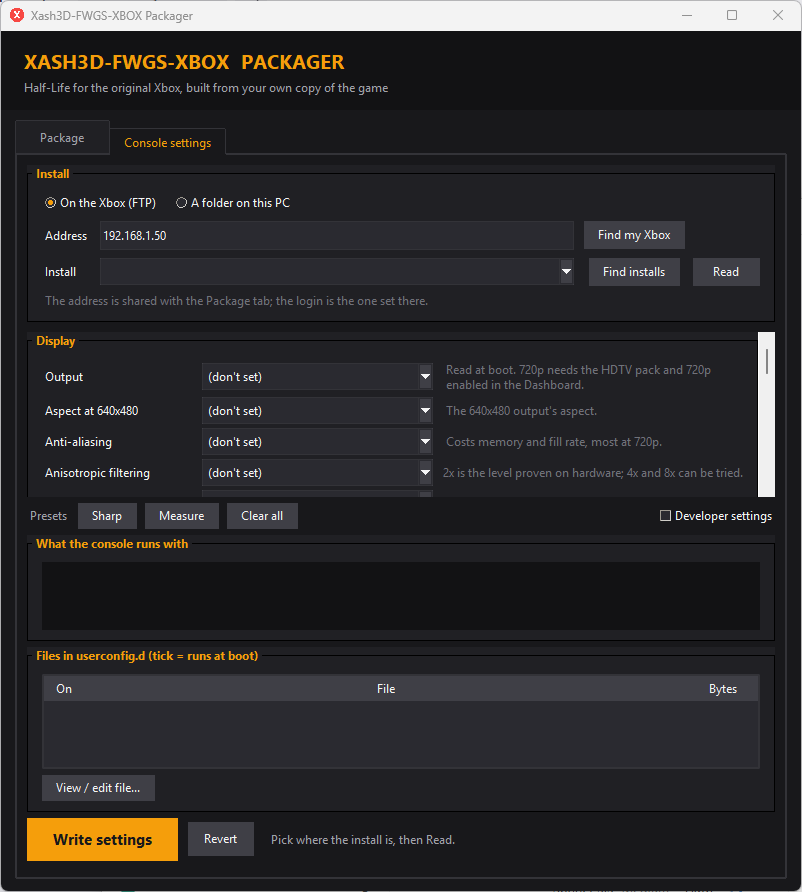
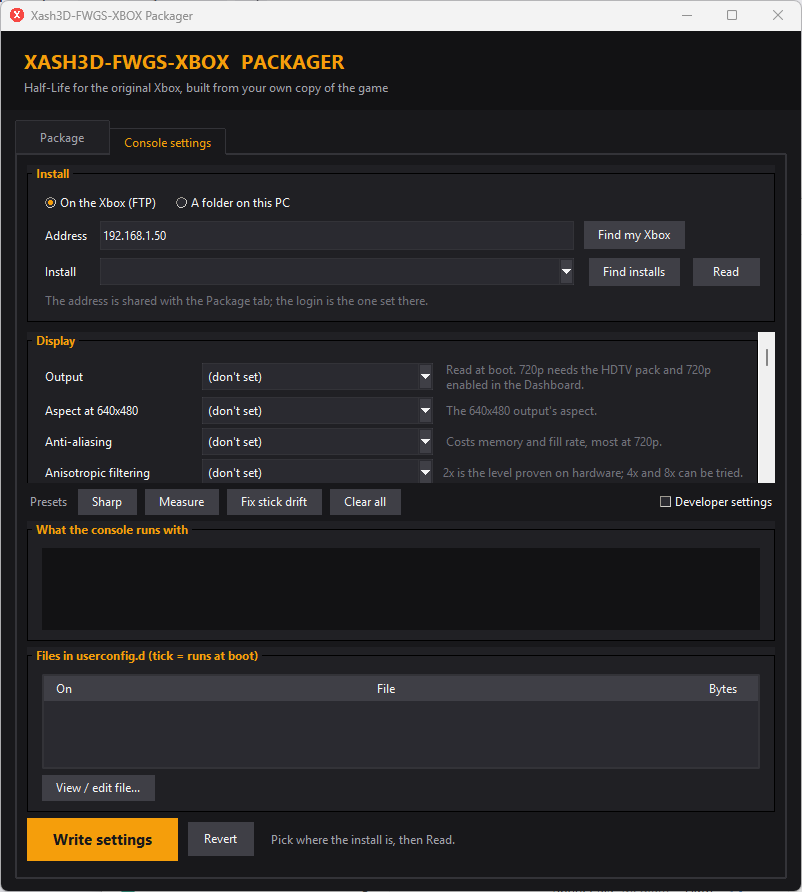
Site: a Troubleshooting page with screenshots of the stick-drift fix; the drift warning leads the settings panel and follows the preset

Changed region(s): [[0.0312, 0.5448, 0.5299, 0.6357], [0.8416, 0.5448, 0.9663, 0.6054]]

diff --git a/site/troubleshooting.html b/site/troubleshooting.html
@@ -1,0 +1,97 @@
+<!doctype html>
+<html lang="en">
+<head>
+<meta charset="utf-8">
+<meta name="viewport" content="width=device-width, initial-scale=1">
+<title>Troubleshooting - Xash3D-FWGS-XBOX</title>
+<meta name="description" content="Fixes for the view turning by itself, the Windows warning, FTP problems and a black world.">
+<link rel="stylesheet" href="style.css">
+</head>
+<body>
+<header class="site"><div class="bar">
+<a class="name" href="index.html">Xash3D-<b>FWGS</b>-XBOX</a>
+<nav><a href="index.html">Home</a><a href="install.html">Install</a><a href="settings.html">Console settings</a><a href="troubleshooting.html" aria-current="page">Troubleshooting</a><a href="menus.html">Menus</a><a href="progress.html">Progress</a><a href="performance.html">Performance</a><a href="recorder.html">Frame-time recorder</a><a href="build.html">Building</a><a href="differences.html">How it differs</a><a href="about.html">About</a></nav>
+</div></header>
+<main>
+<h1>Troubleshooting</h1>
+<p class="lede">Problems people have run into, and what to do about each.</p>
+
+<h2 id="drift">The view turns by itself</h2>
+<p>With nobody touching the controller, the camera slowly turns, usually to the left. This is <strong>stick drift</strong>.
+Original Xbox pads rest well off centre: an untouched right stick can read about a fifth of the way over. The engine
+ignores a stick inside its <em>dead zone</em>, and the Xbox build's default is 8689, which is wide enough. A dead zone of 0
+lets the resting offset turn the view.</p>
+<p>Where the 0 came from: before v0.1.2 the packager copied PC Half-Life's <code>config.cfg</code> to the console, and that
+file sets all four stick dead zones to 0. On the console's first start it ran, and the console then saved those zeros as its
+own settings, so they stayed. From v0.1.2 the export leaves the PC's settings behind. A console that already ran the old
+export still has them; here is how to fix it.</p>
+
+<h3>Fix it from the packager (v0.1.2 or later)</h3>
+<ol>
+<li>Put the console on the dashboard (the game must not be running: FTP does not work inside the game).</li>
+<li>Open the packager, go to <strong>Console settings</strong>, press <strong>Find my Xbox</strong> and <strong>Find installs</strong>,
+choose the Half-Life install and press <strong>Read</strong>.</li>
+<li>If a saved dead zone is too small, <em>What the console runs with</em> says so first, in orange.</li>
+<li>Press the <strong>Fix stick drift</strong> preset. The four <em>Controller</em> rows fill in with 8689 and the warning goes.</li>
+<li>Press <strong>Write settings</strong>, then start the game. The fix is written to <code>userconfig.d/50-packager.cfg</code>, which
+runs after the console's saved settings on every start.</li>
+</ol>
+<p>The <em>Controller</em> group also lets you pick another value: lower makes the stick more sensitive near the centre,
+but under about 8000 a pad that rests off centre will drift again.</p>
+<div class="shots">
+<figure>
+<a href="media/packager-drift-warning.png"><img src="media/packager-drift-warning.png" loading="lazy" width="802" height="892"
+alt="The Console settings tab after reading an install: the Controller group of four stick dead zones, the Fix stick drift preset button, and under What the console runs with a warning that the dead zones are 0 and the view can turn by itself."></a>
+<figcaption><strong>After Read.</strong> The warning names the settings and where they come from. The address and
+folder shown are examples.</figcaption>
+</figure>
+<figure>
+<a href="media/packager-drift-fixed.png"><img src="media/packager-drift-fixed.png" loading="lazy" width="802" height="892"
+alt="The same tab after pressing Fix stick drift: the Controller rows show 8689 and the warning is gone; the status line says to press Write settings to apply it."></a>
+<figcaption><strong>After Fix stick drift.</strong> The rows read 8689. Nothing is changed on the console until you press
+Write settings.</figcaption>
+</figure>
+</div>
+
+<h3>Or by hand, without the packager</h3>
+<p>Create a file called <code>60-deadzone.cfg</code> in the console's <strong>game folder</strong> (not in
+<code>UDATA</code>), in <code>valve/userconfig.d/</code> next to <code>50-packager.cfg</code>. Make the folder if it is not
+there. For example <code>/F/Games/Half-Life/valve/userconfig.d/60-deadzone.cfg</code> (some FTP servers show the drive as
+<code>/HDD0-F/</code>). Put these four lines in it:</p>
+<pre><code>joy_forward_deadzone "8689"
+joy_side_deadzone "8689"
+joy_pitch_deadzone "8689"
+joy_yaw_deadzone "8689"</code></pre>
+
+<h3>Or start the settings again</h3>
+<p>Delete <strong>both</strong> copies of <code>config.cfg</code>: the one in the game folder (<code>Games/Half-Life/valve/</code>,
+which the old export put there) and the one the console saved (<code>E:&#92;UDATA&#92;FFFF0002&#92;valve&#92;valve&#92;</code>). Deleting only
+the saved one is not enough: the console then falls back to the game-folder copy and saves the zeros again. The game starts
+with the Xbox defaults, but everything saved in the menu (volume, display, game options, changed controls) is lost. Settings
+written by the packager's Console settings tab survive, because they live in <code>userconfig.d</code>.</p>
+
+<h2 id="smartscreen">Windows says "Windows protected your PC"</h2>
+<p>The packager's exe is not signed yet, so Windows does not know the publisher. Check the zip against
+<code>SHA256SUMS.txt</code> on the release page, then choose <em>More info</em> and <em>Run anyway</em>.
+See the <a href="install.html#code-signing-policy">code signing policy</a> for where signing stands.</p>
+
+<h2 id="ftp">The packager cannot reach the console, or the upload stops</h2>
+<ul>
+<li><strong>The game must not be running.</strong> The console's FTP server is part of the dashboard; it is not there while
+a game is up. Go back to the dashboard first.</li>
+<li><strong>One connection at a time.</strong> Close any other FTP program that is connected to the console.</li>
+<li><strong>"421 Too many users".</strong> Seen with the UnleashX dashboard: a program that died in the middle of a transfer can
+keep its login slot for about half an hour, and every new login is refused. Restarting the console clears it.</li>
+<li>Press <strong>Find my Xbox</strong> again if the console's address changed: it is usually handed out by your router and can
+differ from one day to the next.</li>
+</ul>
+
+<h2 id="black-world">The world draws black and only models show</h2>
+<p>A loose <code>.bsp</code> sitting beside a baked <code>.mpak</code> is loaded instead of the archive, and the Xbox renderer
+then has no world to draw. The packager leaves the <code>.bsp</code> of every baked map off the console. If you copied files
+across by hand, remove the retail <code>.bsp</code> of each map that has an <code>.mpak</code>.</p>
+</main>
+<footer><div>Xash3D-FWGS-XBOX, formerly Resonance3D. GPL-3.0-or-later. Contains no Valve assets.
+<a href="https://github.com/mathiasdbo/Xash3D-FWGS-XBOX">Source on GitHub</a>.</div></footer>
+</body>
+</html>

diff --git a/site/settings.html b/site/settings.html
@@ -10,7 +10,7 @@
 <body>
 <header class="site"><div class="bar">
 <a class="name" href="index.html">Xash3D-<b>FWGS</b>-XBOX</a>
-<nav><a href="index.html">Home</a><a href="install.html">Install</a><a href="settings.html" aria-current="page">Console settings</a><a href="menus.html">Menus</a><a href="progress.html">Progress</a><a href="performance.html">Performance</a><a href="recorder.html">Frame-time recorder</a><a href="build.html">Building</a><a href="differences.html">How it differs</a><a href="about.html">About</a></nav>
+<nav><a href="index.html">Home</a><a href="install.html">Install</a><a href="settings.html" aria-current="page">Console settings</a><a href="troubleshooting.html">Troubleshooting</a><a href="menus.html">Menus</a><a href="progress.html">Progress</a><a href="performance.html">Performance</a><a href="recorder.html">Frame-time recorder</a><a href="build.html">Building</a><a href="differences.html">How it differs</a><a href="about.html">About</a></nav>
 </div></header>
 <main>
 <h1>Console settings</h1>
@@ -89,7 +89,8 @@ v0.1.2 copied it to the console, where it ran on the first start and was then sa
 <p>If that happened to your install, the <strong>Console settings</strong> tab says so under <em>What the console runs with</em>
 (<em>too small for an Xbox pad</em>). Read the install, press the <strong>Fix stick drift</strong> preset, and
 <strong>Write settings</strong>: it writes the four dead zones as 8689 to <code>userconfig.d/50-packager.cfg</code>, which runs
-after the saved <code>config.cfg</code> on every start. The <em>Controller</em> group lets you choose other values.</p>
+after the saved <code>config.cfg</code> on every start. The <em>Controller</em> group lets you choose other values.
+Screenshots, and two other ways to fix it, are on the <a href="troubleshooting.html#drift">Troubleshooting</a> page.</p>
 
 <p>Audio options (backend, rate, hardware audio) and developer switches (GPU skinning, culling) are in the tab
 too; developer settings are behind a tick. Video output, sound backend, rate and hardware audio are read at

diff --git a/site/differences.html b/site/differences.html
@@ -10,7 +10,7 @@
 <body>
 <header class="site"><div class="bar">
 <a class="name" href="index.html">Xash3D-<b>FWGS</b>-XBOX</a>
-<nav><a href="index.html">Home</a><a href="install.html">Install</a><a href="settings.html">Console settings</a><a href="menus.html">Menus</a><a href="progress.html">Progress</a><a href="performance.html">Performance</a><a href="recorder.html">Frame-time recorder</a><a href="build.html">Building</a><a href="differences.html" aria-current="page">How it differs</a><a href="about.html">About</a></nav>
+<nav><a href="index.html">Home</a><a href="install.html">Install</a><a href="settings.html">Console settings</a><a href="troubleshooting.html">Troubleshooting</a><a href="menus.html">Menus</a><a href="progress.html">Progress</a><a href="performance.html">Performance</a><a href="recorder.html">Frame-time recorder</a><a href="build.html">Building</a><a href="differences.html" aria-current="page">How it differs</a><a href="about.html">About</a></nav>
 </div></header>
 <main>
 <h1>How it differs from Xash3D FWGS</h1>

diff --git a/site/install.html b/site/install.html
@@ -10,7 +10,7 @@
 <body>
 <header class="site"><div class="bar">
 <a class="name" href="index.html">Xash3D-<b>FWGS</b>-XBOX</a>
-<nav><a href="index.html">Home</a><a href="install.html" aria-current="page">Install</a><a href="settings.html">Console settings</a><a href="menus.html">Menus</a><a href="progress.html">Progress</a><a href="performance.html">Performance</a><a href="recorder.html">Frame-time recorder</a><a href="build.html">Building</a><a href="differences.html">How it differs</a><a href="about.html">About</a></nav>
+<nav><a href="index.html">Home</a><a href="install.html" aria-current="page">Install</a><a href="settings.html">Console settings</a><a href="troubleshooting.html">Troubleshooting</a><a href="menus.html">Menus</a><a href="progress.html">Progress</a><a href="performance.html">Performance</a><a href="recorder.html">Frame-time recorder</a><a href="build.html">Building</a><a href="differences.html">How it differs</a><a href="about.html">About</a></nav>
 </div></header>
 <main>
 <h1>Put Half-Life on your Xbox</h1>

diff --git a/site/recorder.html b/site/recorder.html
@@ -10,7 +10,7 @@
 <body>
 <header class="site"><div class="bar">
 <a class="name" href="index.html">Xash3D-<b>FWGS</b>-XBOX</a>
-<nav><a href="index.html">Home</a><a href="install.html">Install</a><a href="settings.html">Console settings</a><a href="menus.html">Menus</a><a href="progress.html">Progress</a><a href="performance.html">Performance</a><a href="recorder.html" aria-current="page">Frame-time recorder</a><a href="build.html">Building</a><a href="differences.html">How it differs</a><a href="about.html">About</a></nav>
+<nav><a href="index.html">Home</a><a href="install.html">Install</a><a href="settings.html">Console settings</a><a href="troubleshooting.html">Troubleshooting</a><a href="menus.html">Menus</a><a href="progress.html">Progress</a><a href="performance.html">Performance</a><a href="recorder.html" aria-current="page">Frame-time recorder</a><a href="build.html">Building</a><a href="differences.html">How it differs</a><a href="about.html">About</a></nav>
 </div></header>
 <main>
 <h1>Frame-time recorder</h1>

diff --git a/site/index.html b/site/index.html
@@ -10,7 +10,7 @@
 <body>
 <header class="site"><div class="bar">
 <a class="name" href="index.html">Xash3D-<b>FWGS</b>-XBOX</a>
-<nav><a href="index.html" aria-current="page">Home</a><a href="install.html">Install</a><a href="settings.html">Console settings</a><a href="menus.html">Menus</a><a href="progress.html">Progress</a><a href="performance.html">Performance</a><a href="recorder.html">Frame-time recorder</a><a href="build.html">Building</a><a href="differences.html">How it differs</a><a href="about.html">About</a></nav>
+<nav><a href="index.html" aria-current="page">Home</a><a href="install.html">Install</a><a href="settings.html">Console settings</a><a href="troubleshooting.html">Troubleshooting</a><a href="menus.html">Menus</a><a href="progress.html">Progress</a><a href="performance.html">Performance</a><a href="recorder.html">Frame-time recorder</a><a href="build.html">Building</a><a href="differences.html">How it differs</a><a href="about.html">About</a></nav>
 </div></header>
 <main>
 <h1>Xash3D-FWGS-XBOX</h1>

diff --git a/site/performance.html b/site/performance.html
@@ -10,7 +10,7 @@
 <body>
 <header class="site"><div class="bar">
 <a class="name" href="index.html">Xash3D-<b>FWGS</b>-XBOX</a>
-<nav><a href="index.html">Home</a><a href="install.html">Install</a><a href="settings.html">Console settings</a><a href="menus.html">Menus</a><a href="progress.html">Progress</a><a href="performance.html" aria-current="page">Performance</a><a href="recorder.html">Frame-time recorder</a><a href="build.html">Building</a><a href="differences.html">How it differs</a><a href="about.html">About</a></nav>
+<nav><a href="index.html">Home</a><a href="install.html">Install</a><a href="settings.html">Console settings</a><a href="troubleshooting.html">Troubleshooting</a><a href="menus.html">Menus</a><a href="progress.html">Progress</a><a href="performance.html" aria-current="page">Performance</a><a href="recorder.html">Frame-time recorder</a><a href="build.html">Building</a><a href="differences.html">How it differs</a><a href="about.html">About</a></nav>
 </div></header>
 <main>
 <h1>Performance</h1>

diff --git a/site/menus.html b/site/menus.html
@@ -10,7 +10,7 @@
 <body>
 <header class="site"><div class="bar">
 <a class="name" href="index.html">Xash3D-<b>FWGS</b>-XBOX</a>
-<nav><a href="index.html">Home</a><a href="install.html">Install</a><a href="settings.html">Console settings</a><a href="menus.html" aria-current="page">Menus</a><a href="progress.html">Progress</a><a href="performance.html">Performance</a><a href="recorder.html">Frame-time recorder</a><a href="build.html">Building</a><a href="differences.html">How it differs</a><a href="about.html">About</a></nav>
+<nav><a href="index.html">Home</a><a href="install.html">Install</a><a href="settings.html">Console settings</a><a href="troubleshooting.html">Troubleshooting</a><a href="menus.html" aria-current="page">Menus</a><a href="progress.html">Progress</a><a href="performance.html">Performance</a><a href="recorder.html">Frame-time recorder</a><a href="build.html">Building</a><a href="differences.html">How it differs</a><a href="about.html">About</a></nav>
 </div></header>
 <main>
 <h1>The menus</h1>

diff --git a/site/build.html b/site/build.html
@@ -10,7 +10,7 @@
 <body>
 <header class="site"><div class="bar">
 <a class="name" href="index.html">Xash3D-<b>FWGS</b>-XBOX</a>
-<nav><a href="index.html">Home</a><a href="install.html">Install</a><a href="settings.html">Console settings</a><a href="menus.html">Menus</a><a href="progress.html">Progress</a><a href="performance.html">Performance</a><a href="recorder.html">Frame-time recorder</a><a href="build.html" aria-current="page">Building</a><a href="differences.html">How it differs</a><a href="about.html">About</a></nav>
+<nav><a href="index.html">Home</a><a href="install.html">Install</a><a href="settings.html">Console settings</a><a href="troubleshooting.html">Troubleshooting</a><a href="menus.html">Menus</a><a href="progress.html">Progress</a><a href="performance.html">Performance</a><a href="recorder.html">Frame-time recorder</a><a href="build.html" aria-current="page">Building</a><a href="differences.html">How it differs</a><a href="about.html">About</a></nav>
 </div></header>
 <main>
 <h1>Building</h1>

diff --git a/site/progress.html b/site/progress.html
@@ -10,7 +10,7 @@
 <body>
 <header class="site"><div class="bar">
 <a class="name" href="index.html">Xash3D-<b>FWGS</b>-XBOX</a>
-<nav><a href="index.html">Home</a><a href="install.html">Install</a><a href="settings.html">Console settings</a><a href="menus.html">Menus</a><a href="progress.html" aria-current="page">Progress</a><a href="performance.html">Performance</a><a href="recorder.html">Frame-time recorder</a><a href="build.html">Building</a><a href="differences.html">How it differs</a><a href="about.html">About</a></nav>
+<nav><a href="index.html">Home</a><a href="install.html">Install</a><a href="settings.html">Console settings</a><a href="troubleshooting.html">Troubleshooting</a><a href="menus.html">Menus</a><a href="progress.html" aria-current="page">Progress</a><a href="performance.html">Performance</a><a href="recorder.html">Frame-time recorder</a><a href="build.html">Building</a><a href="differences.html">How it differs</a><a href="about.html">About</a></nav>
 </div></header>
 <main>
 <h1>Progress</h1>

diff --git a/site/about.html b/site/about.html
@@ -10,7 +10,7 @@
 <body>
 <header class="site"><div class="bar">
 <a class="name" href="index.html">Xash3D-<b>FWGS</b>-XBOX</a>
-<nav><a href="index.html">Home</a><a href="install.html">Install</a><a href="settings.html">Console settings</a><a href="menus.html">Menus</a><a href="progress.html">Progress</a><a href="performance.html">Performance</a><a href="recorder.html">Frame-time recorder</a><a href="build.html">Building</a><a href="differences.html">How it differs</a><a href="about.html" aria-current="page">About</a></nav>
+<nav><a href="index.html">Home</a><a href="install.html">Install</a><a href="settings.html">Console settings</a><a href="troubleshooting.html">Troubleshooting</a><a href="menus.html">Menus</a><a href="progress.html">Progress</a><a href="performance.html">Performance</a><a href="recorder.html">Frame-time recorder</a><a href="build.html">Building</a><a href="differences.html">How it differs</a><a href="about.html" aria-current="page">About</a></nav>
 </div></header>
 <main>
 <h1>About</h1>

diff --git a/tools/site/build.py b/tools/site/build.py
@@ -15,7 +15,7 @@ import shutil
 ROOT = os.path.dirname(os.path.dirname(os.path.dirname(os.path.abspath(__file__))))
 OUT = os.path.join(ROOT, "site")
 REPO = "https://github.com/mathiasdbo/Xash3D-FWGS-XBOX"
-NAV = [("index.html", "Home"), ("install.html", "Install"), ("settings.html", "Console settings"),
+NAV = [("index.html", "Home"), ("install.html", "Install"), ("settings.html", "Console settings"), ("troubleshooting.html", "Troubleshooting"),
        ("menus.html", "Menus"), ("progress.html", "Progress"), ("performance.html", "Performance"),
        ("recorder.html", "Frame-time recorder"), ("build.html", "Building"),
        ("differences.html", "How it differs"), ("about.html", "About")]
@@ -309,7 +309,8 @@ v0.1.2 copied it to the console, where it ran on the first start and was then sa
 <p>If that happened to your install, the <strong>Console settings</strong> tab says so under <em>What the console runs with</em>
 (<em>too small for an Xbox pad</em>). Read the install, press the <strong>Fix stick drift</strong> preset, and
 <strong>Write settings</strong>: it writes the four dead zones as 8689 to <code>userconfig.d/50-packager.cfg</code>, which runs
-after the saved <code>config.cfg</code> on every start. The <em>Controller</em> group lets you choose other values.</p>
+after the saved <code>config.cfg</code> on every start. The <em>Controller</em> group lets you choose other values.
+Screenshots, and two other ways to fix it, are on the <a href="troubleshooting.html#drift">Troubleshooting</a> page.</p>
 
 <p>Audio options (backend, rate, hardware audio) and developer switches (GPU skinning, culling) are in the tab
 too; developer settings are behind a tick. Video output, sound backend, rate and hardware audio are read at
@@ -669,6 +670,87 @@ suits the GPU's vertex cache.</li>
 <p>The detail is in <code>docs/r3d/xbox-performance-review.md</code>, <code>CHANGELOG.md</code> and
 <code>docs/r3d/frametime-recorder.md</code>.</p>
 """, "The 720p and 60 fps target, measured frame times, the optimisations that landed and what is next.")
+
+
+page("troubleshooting.html", "Troubleshooting - Xash3D-FWGS-XBOX", """
+<h1>Troubleshooting</h1>
+<p class="lede">Problems people have run into, and what to do about each.</p>
+
+<h2 id="drift">The view turns by itself</h2>
+<p>With nobody touching the controller, the camera slowly turns, usually to the left. This is <strong>stick drift</strong>.
+Original Xbox pads rest well off centre: an untouched right stick can read about a fifth of the way over. The engine
+ignores a stick inside its <em>dead zone</em>, and the Xbox build's default is 8689, which is wide enough. A dead zone of 0
+lets the resting offset turn the view.</p>
+<p>Where the 0 came from: before v0.1.2 the packager copied PC Half-Life's <code>config.cfg</code> to the console, and that
+file sets all four stick dead zones to 0. On the console's first start it ran, and the console then saved those zeros as its
+own settings, so they stayed. From v0.1.2 the export leaves the PC's settings behind. A console that already ran the old
+export still has them; here is how to fix it.</p>
+
+<h3>Fix it from the packager (v0.1.2 or later)</h3>
+<ol>
+<li>Put the console on the dashboard (the game must not be running: FTP does not work inside the game).</li>
+<li>Open the packager, go to <strong>Console settings</strong>, press <strong>Find my Xbox</strong> and <strong>Find installs</strong>,
+choose the Half-Life install and press <strong>Read</strong>.</li>
+<li>If a saved dead zone is too small, <em>What the console runs with</em> says so first, in orange.</li>
+<li>Press the <strong>Fix stick drift</strong> preset. The four <em>Controller</em> rows fill in with 8689 and the warning goes.</li>
+<li>Press <strong>Write settings</strong>, then start the game. The fix is written to <code>userconfig.d/50-packager.cfg</code>, which
+runs after the console's saved settings on every start.</li>
+</ol>
+<p>The <em>Controller</em> group also lets you pick another value: lower makes the stick more sensitive near the centre,
+but under about 8000 a pad that rests off centre will drift again.</p>
+<div class="shots">
+<figure>
+<a href="media/packager-drift-warning.png"><img src="media/packager-drift-warning.png" loading="lazy" width="802" height="892"
+alt="The Console settings tab after reading an install: the Controller group of four stick dead zones, the Fix stick drift preset button, and under What the console runs with a warning that the dead zones are 0 and the view can turn by itself."></a>
+<figcaption><strong>After Read.</strong> The warning names the settings and where they come from. The address and
+folder shown are examples.</figcaption>
+</figure>
+<figure>
+<a href="media/packager-drift-fixed.png"><img src="media/packager-drift-fixed.png" loading="lazy" width="802" height="892"
+alt="The same tab after pressing Fix stick drift: the Controller rows show 8689 and the warning is gone; the status line says to press Write settings to apply it."></a>
+<figcaption><strong>After Fix stick drift.</strong> The rows read 8689. Nothing is changed on the console until you press
+Write settings.</figcaption>
+</figure>
+</div>
+
+<h3>Or by hand, without the packager</h3>
+<p>Create a file called <code>60-deadzone.cfg</code> in the console's <strong>game folder</strong> (not in
+<code>UDATA</code>), in <code>valve/userconfig.d/</code> next to <code>50-packager.cfg</code>. Make the folder if it is not
+there. For example <code>/F/Games/Half-Life/valve/userconfig.d/60-deadzone.cfg</code> (some FTP servers show the drive as
+<code>/HDD0-F/</code>). Put these four lines in it:</p>
+<pre><code>joy_forward_deadzone "8689"
+joy_side_deadzone "8689"
+joy_pitch_deadzone "8689"
+joy_yaw_deadzone "8689"</code></pre>
+
+<h3>Or start the settings again</h3>
+<p>Delete <strong>both</strong> copies of <code>config.cfg</code>: the one in the game folder (<code>Games/Half-Life/valve/</code>,
+which the old export put there) and the one the console saved (<code>E:&#92;UDATA&#92;FFFF0002&#92;valve&#92;valve&#92;</code>). Deleting only
+the saved one is not enough: the console then falls back to the game-folder copy and saves the zeros again. The game starts
+with the Xbox defaults, but everything saved in the menu (volume, display, game options, changed controls) is lost. Settings
+written by the packager's Console settings tab survive, because they live in <code>userconfig.d</code>.</p>
+
+<h2 id="smartscreen">Windows says "Windows protected your PC"</h2>
+<p>The packager's exe is not signed yet, so Windows does not know the publisher. Check the zip against
+<code>SHA256SUMS.txt</code> on the release page, then choose <em>More info</em> and <em>Run anyway</em>.
+See the <a href="install.html#code-signing-policy">code signing policy</a> for where signing stands.</p>
+
+<h2 id="ftp">The packager cannot reach the console, or the upload stops</h2>
+<ul>
+<li><strong>The game must not be running.</strong> The console's FTP server is part of the dashboard; it is not there while
+a game is up. Go back to the dashboard first.</li>
+<li><strong>One connection at a time.</strong> Close any other FTP program that is connected to the console.</li>
+<li><strong>"421 Too many users".</strong> Seen with the UnleashX dashboard: a program that died in the middle of a transfer can
+keep its login slot for about half an hour, and every new login is refused. Restarting the console clears it.</li>
+<li>Press <strong>Find my Xbox</strong> again if the console's address changed: it is usually handed out by your router and can
+differ from one day to the next.</li>
+</ul>
+
+<h2 id="black-world">The world draws black and only models show</h2>
+<p>A loose <code>.bsp</code> sitting beside a baked <code>.mpak</code> is loaded instead of the archive, and the Xbox renderer
+then has no world to draw. The packager leaves the <code>.bsp</code> of every baked map off the console. If you copied files
+across by hand, remove the retail <code>.bsp</code> of each map that has an <code>.mpak</code>.</p>
+""", "Fixes for the view turning by itself, the Windows warning, FTP problems and a black world.")
 
 
 # ---- Performance: one entry per report in docs/r3d/reports/*.html ------------------------------
